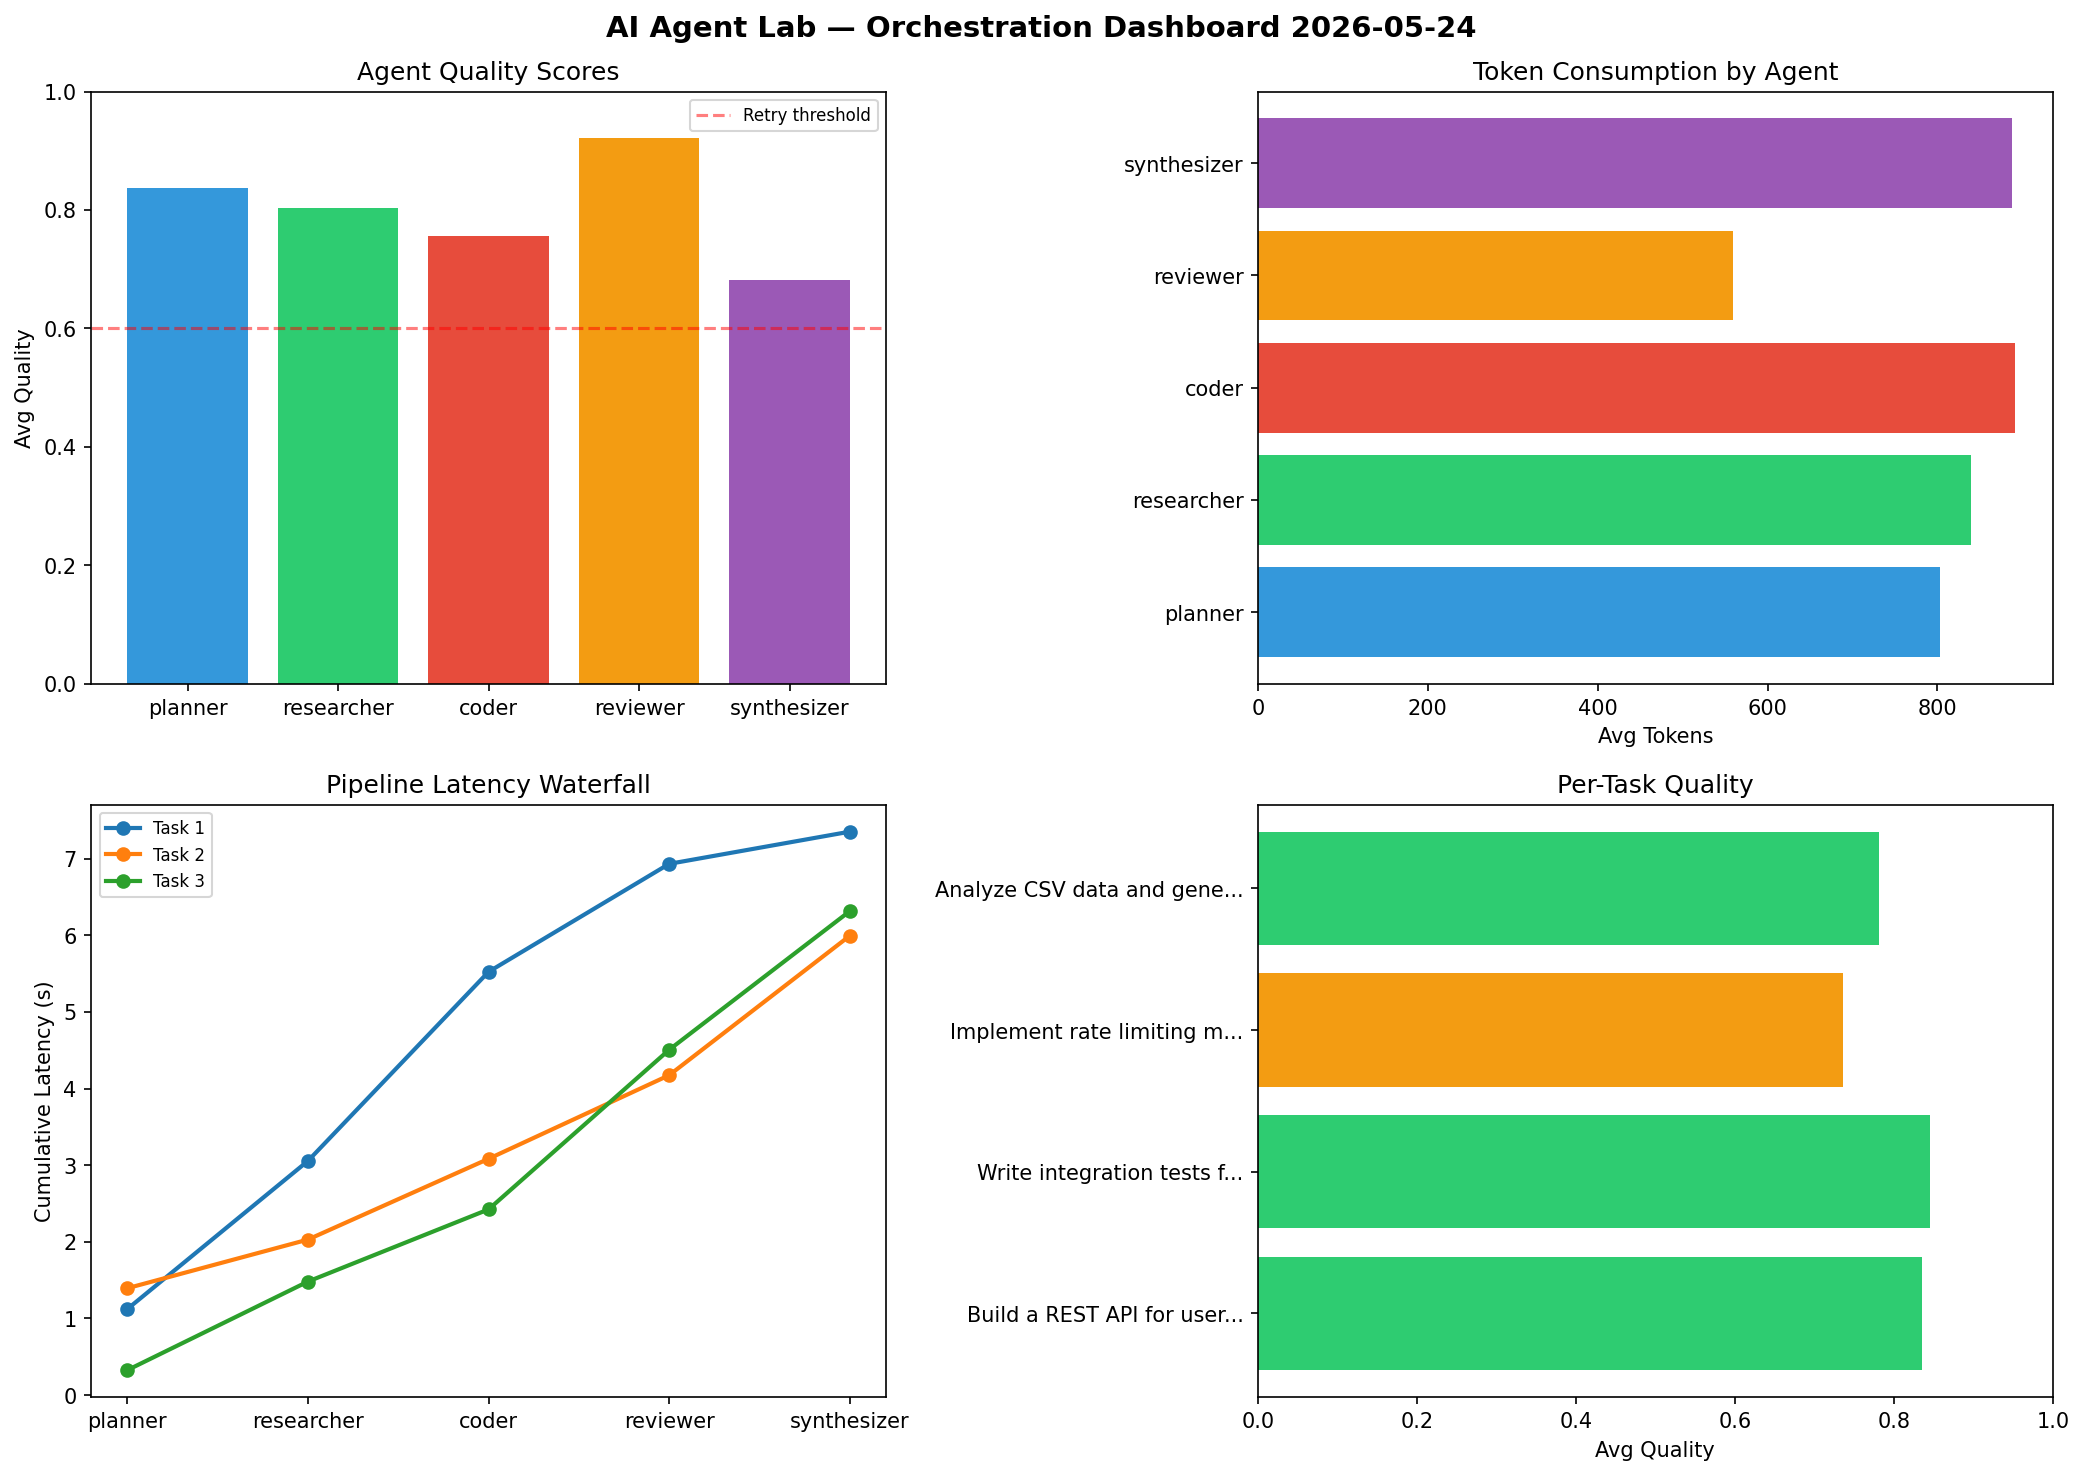
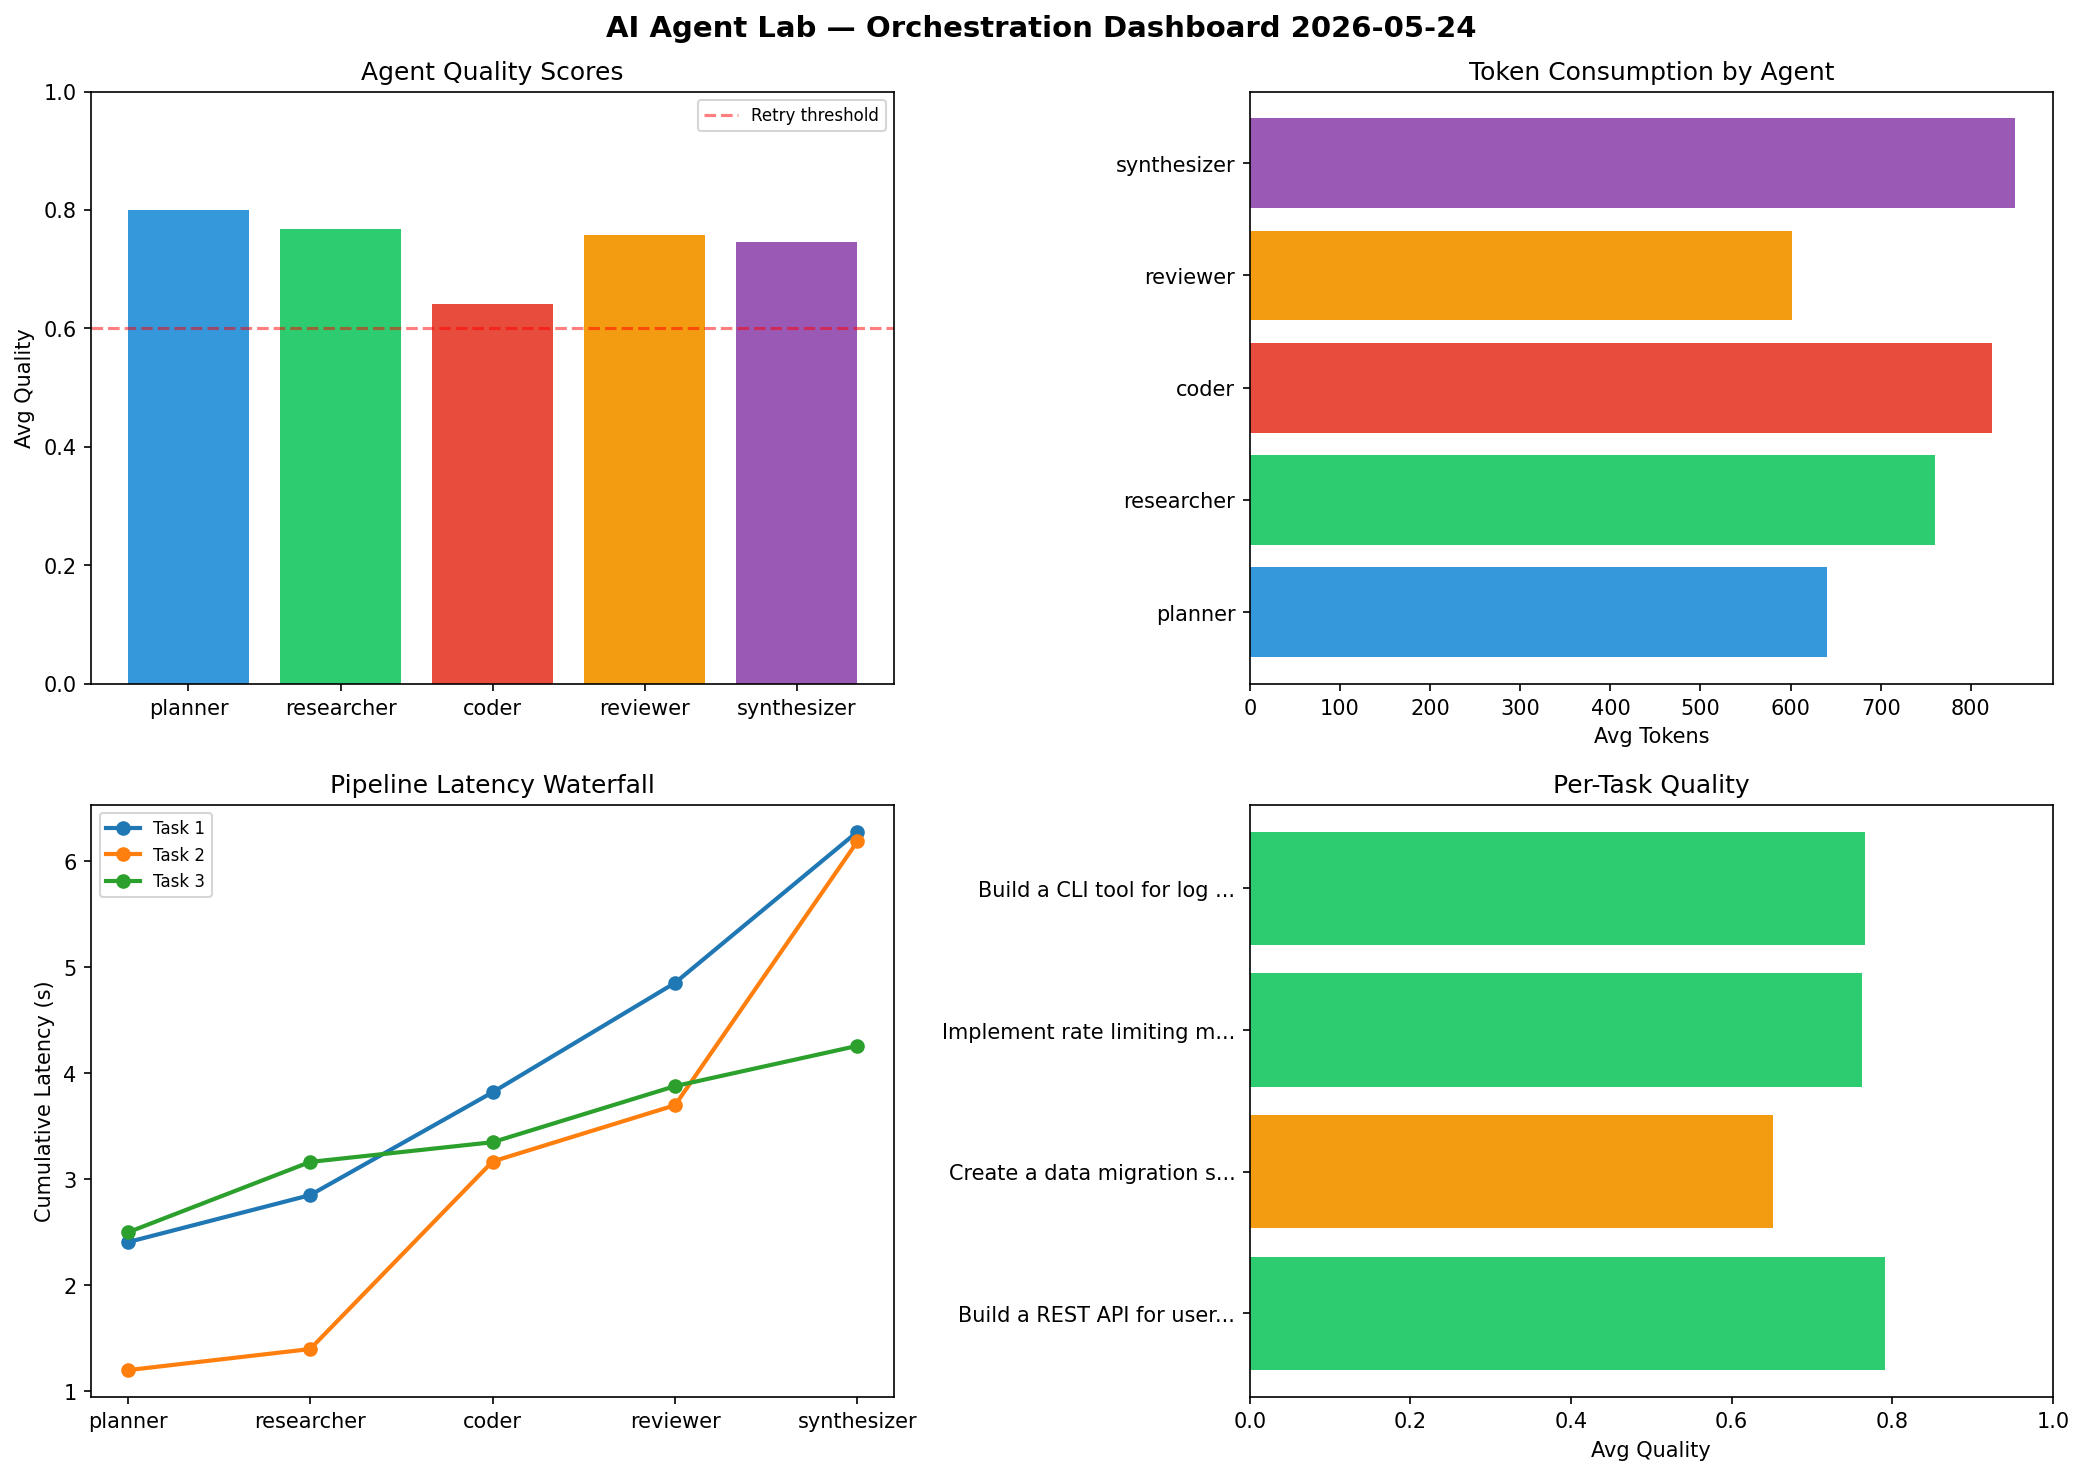
ai-agent-lab: orchestration run 2026-05-24T10:12

diff --git a/logs/2026-05-24.md b/logs/2026-05-24.md
@@ -1,6 +1,6 @@
 # AI Agent Lab — Orchestration Report 2026-05-24
 
-**Run ID:** `1e79d6c61a` | **Tasks:** 4 | **Avg Quality:** 0.8
+**Run ID:** `455ac05f96` | **Tasks:** 4 | **Avg Quality:** 0.743
 
 ![Dashboard](2026-05-24_dashboard.png)
 
@@ -8,52 +8,52 @@
 
 | Metric | Value |
 |--------|-------|
-| avg_latency | 6.234 |
-| total_tokens | 15923 |
-| avg_quality | 0.8 |
+| avg_latency | 5.784 |
+| total_tokens | 14700 |
+| avg_quality | 0.743 |
 
 ## Delta vs Yesterday
 
 | Metric | Today | Yesterday | Change |
 |--------|-------|-----------|--------|
-| avg_latency | 6.234 | 5.043 | 📈 23.6% |
-| total_tokens | 15923 | 14746 | 📈 8.0% |
-| avg_quality | 0.8 | 0.791 | 📈 1.1% |
+| avg_latency | 5.784 | 5.043 | 📈 14.7% |
+| total_tokens | 14700 | 14746 | 📉 -0.3% |
+| avg_quality | 0.743 | 0.791 | 📉 -6.1% |
 
 ## Pipeline Results
 
 ### Build a REST API for user authentication
 | Agent | Quality | Latency | Tokens | Status |
 |-------|---------|---------|--------|--------|
-| planner | 0.923 | 1.122s | 411 | success |
-| researcher | 0.714 | 1.933s | 1067 | success |
-| coder | 0.918 | 2.468s | 1110 | success |
-| reviewer | 0.837 | 1.409s | 397 | success |
-| synthesizer | 0.788 | 0.42s | 926 | success |
+| planner | 0.804 | 2.407s | 404 | success |
+| researcher | 0.753 | 0.444s | 1031 | success |
+| coder | 0.579 | 0.97s | 513 | needs_retry |
+| reviewer | 0.829 | 1.032s | 428 | success |
+| synthesizer | 0.992 | 1.426s | 1121 | success |
 
-### Write integration tests for payment processing module
+### Create a data migration script for schema v2
 | Agent | Quality | Latency | Tokens | Status |
 |-------|---------|---------|--------|--------|
-| planner | 0.982 | 1.394s | 914 | success |
-| researcher | 0.798 | 0.635s | 832 | success |
-| coder | 0.978 | 1.054s | 712 | success |
-| reviewer | 0.869 | 1.091s | 858 | success |
-| synthesizer | 0.604 | 1.82s | 674 | success |
+| planner | 0.883 | 1.2s | 1108 | success |
+| researcher | 0.602 | 0.199s | 265 | success |
+| coder | 0.566 | 1.769s | 1009 | needs_retry |
+| reviewer | 0.63 | 0.531s | 809 | success |
+| synthesizer | 0.576 | 2.489s | 1030 | needs_retry |
 
 ### Implement rate limiting middleware
 | Agent | Quality | Latency | Tokens | Status |
 |-------|---------|---------|--------|--------|
-| planner | 0.597 | 0.325s | 982 | needs_retry |
-| researcher | 0.905 | 1.156s | 768 | success |
-| coder | 0.589 | 0.942s | 726 | needs_retry |
-| reviewer | 0.992 | 2.083s | 402 | success |
-| synthesizer | 0.597 | 1.809s | 1086 | needs_retry |
+| planner | 0.981 | 2.499s | 575 | success |
+| researcher | 0.832 | 0.665s | 792 | success |
+| coder | 0.677 | 0.186s | 1064 | success |
+| reviewer | 0.808 | 0.529s | 612 | success |
+| synthesizer | 0.513 | 0.38s | 579 | needs_retry |
 
-### Analyze CSV data and generate statistical summary
+### Build a CLI tool for log analysis
 | Agent | Quality | Latency | Tokens | Status |
 |-------|---------|---------|--------|--------|
-| planner | 0.847 | 0.493s | 903 | success |
-| researcher | 0.793 | 1.783s | 690 | success |
-| coder | 0.537 | 1.296s | 1017 | needs_retry |
-| reviewer | 0.988 | 1.452s | 581 | success |
-| synthesizer | 0.74 | 0.249s | 867 | success |
+| planner | 0.532 | 1.504s | 473 | needs_retry |
+| researcher | 0.883 | 2.127s | 955 | success |
+| coder | 0.745 | 1.98s | 709 | success |
+| reviewer | 0.766 | 0.323s | 559 | success |
+| synthesizer | 0.905 | 0.478s | 664 | success |
